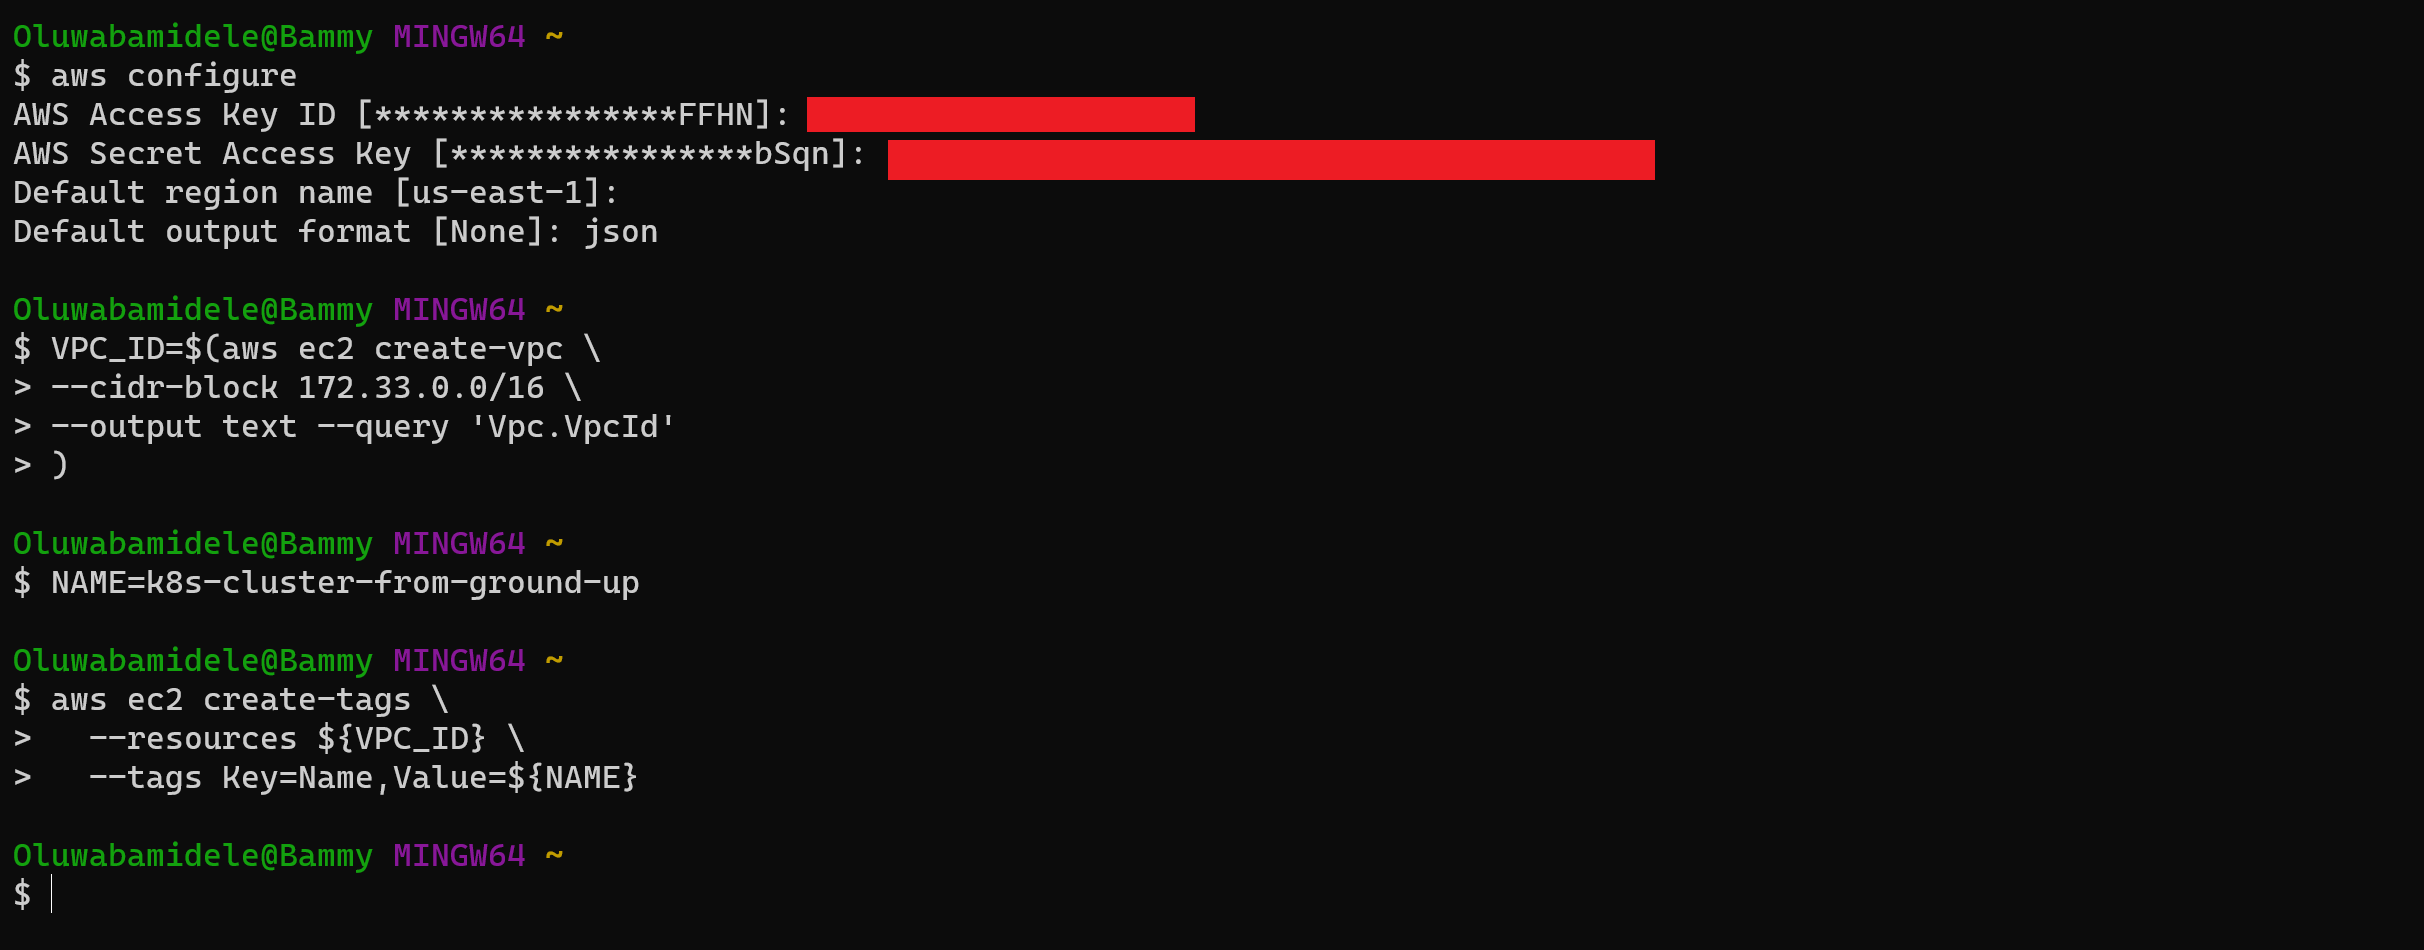
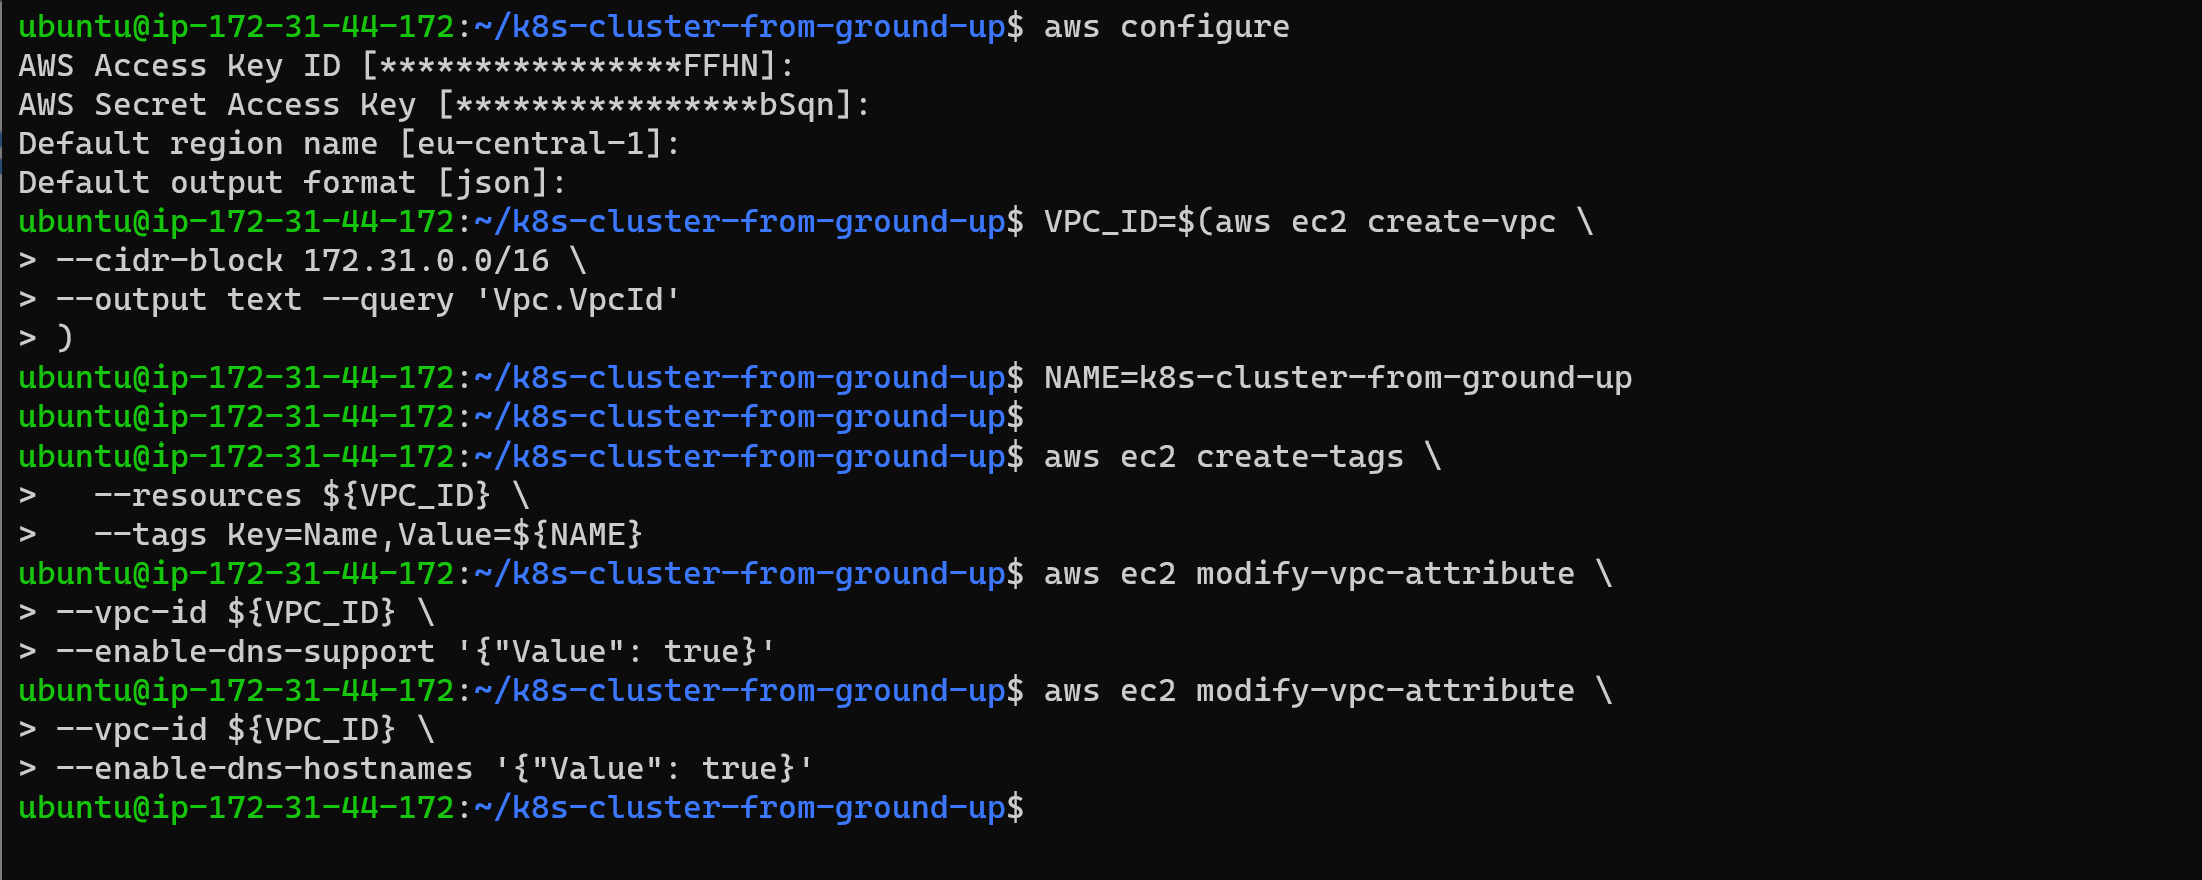
updated

Changed region(s): [[0.0, 0.0, 0.7411, 0.9511]]

diff --git a/project_21.md b/project_21.md
@@ -57,7 +57,7 @@ mkdir k8s-cluster-from-ground-up
 
 # 2. Create a VPC and store the ID as a variable:
 VPC_ID=$(aws ec2 create-vpc \
---cidr-block 172.33.0.0/16 \
+--cidr-block 172.31.0.0/16 \
 --output text --query 'Vpc.VpcId'
 )
 
@@ -87,8 +87,7 @@ aws ec2 modify-vpc-attribute \
  # 5. Set the required region
  AWS_REGION=eu-central-1
  ```
-![cssl installation](./images/6.png)
- ![cssl installation](./images/5.png)
+
 
 ***Dynamic Host Configuration Protocol – DHCP***
 
@@ -109,7 +108,9 @@ aws ec2 create-tags \
 
 ```
 
-![cssl installation](./images/7.png)
+ ![cssl installation](./images/5.png)
+
+![cssl installation](./images/6.png)
 
 ```bash
 # 8. Associate the DHCP Option set with the VPC:
@@ -118,13 +119,13 @@ aws ec2 associate-dhcp-options \
   --vpc-id ${VPC_ID}
   ```
 
-![cssl installation](./images/8.png)
+![cssl installation](./images/7.png)
 
 ```bash
 # 9 Create the Subnet
 SUBNET_ID=$(aws ec2 create-subnet \
   --vpc-id ${VPC_ID} \
-  --cidr-block 172.33.0.0/24 \
+  --cidr-block 172.31.0.0/24 \
   --output text --query 'Subnet.SubnetId')
 
 # 10. Add tag to Subnet
@@ -133,7 +134,7 @@ aws ec2 create-tags \
   --tags Key=Name,Value=${NAME}
 ```
 
-![cssl installation](./images/9.png)
+![cssl installation](./images/8.png)
 
 ```bash
 # 11. Create the Internet Gateway and attach it to the VPC
@@ -150,7 +151,8 @@ aws ec2 attach-internet-gateway \
   --internet-gateway-id ${INTERNET_GATEWAY_ID} \
   --vpc-id ${VPC_ID}
 ```
-![cssl installation](./images/10.png)
+
+![cssl installation](./images/9.png)
 
 ```bash
 # 14. Create route tables
@@ -179,7 +181,7 @@ aws ec2 create-route \
   --gateway-id ${INTERNET_GATEWAY_ID}
 ```
 
-![route table](./images/11.png)
+![route table](./images/10.png)
 
 
 ***Configure security groups***
@@ -202,12 +204,12 @@ aws ec2 create-tags \
 # Create Inbound traffic for all communication within the subnet to connect on ports used by the master node(s)
 aws ec2 authorize-security-group-ingress \
     --group-id ${SECURITY_GROUP_ID} \
-    --ip-permissions IpProtocol=tcp,FromPort=2379,ToPort=2380,IpRanges='[{CidrIp=172.33.0.0/24}]'
+    --ip-permissions IpProtocol=tcp,FromPort=2379,ToPort=2380,IpRanges='[{CidrIp=172.31.0.0/24}]'
 
 # # Create Inbound traffic for all communication within the subnet to connect on ports used by the worker nodes
 aws ec2 authorize-security-group-ingress \
     --group-id ${SECURITY_GROUP_ID} \
-    --ip-permissions IpProtocol=tcp,FromPort=30000,ToPort=32767,IpRanges='[{CidrIp=172.33.0.0/24}]'
+    --ip-permissions IpProtocol=tcp,FromPort=30000,ToPort=32767,IpRanges='[{CidrIp=172.31.0.0/24}]'
 
 # Create inbound traffic to allow connections to the Kubernetes API Server listening on port 6443
 aws ec2 authorize-security-group-ingress \
@@ -231,7 +233,7 @@ aws ec2 authorize-security-group-ingress \
   --cidr 0.0.0.0/0
 ```
 
-![route table](./images/12.png)
+![route table](./images/11.png)
 
 ***Network Load Balancer***
 
@@ -246,7 +248,8 @@ LOAD_BALANCER_ARN=$(aws elbv2 create-load-balancer \
 --output text --query 'LoadBalancers[].LoadBalancerArn')
 
 ```
-![route table](./images/13.png)
+
+![route table](./images/12.png)
 
 ***Tagret Group***
 
@@ -264,12 +267,12 @@ TARGET_GROUP_ARN=$(aws elbv2 create-target-group \
   --output text --query 'TargetGroups[].TargetGroupArn')
 
  # .21 Register targets - (Just like above, no real targets. You will just put the IP addresses so that, when the nodes become available, they will be used as targets.)
- aws elbv2 register-targets \
+aws elbv2 register-targets \
   --target-group-arn ${TARGET_GROUP_ARN} \
-  --targets Id=172.33.0.1{0,1,2} 
+  --targets Id=172.31.0.1{0,1,2}
 ```
 
-![route table](./images/14.png)
+![route table](./images/13.png)
 
 ```bash
 # 22. Create a listener to listen for requests and forward to the target nodes on TCP port 6443
@@ -282,7 +285,7 @@ aws elbv2 create-listener \
 --output text --query 'Listeners[].ListenerArn'
 ```
 
-![route table](./images/15.png)
+![route table](./images/14.png)
 
 ```bash
 # 23. Get the Kubernetes Public address
@@ -326,15 +329,13 @@ for i in 0 1 2; do
     --key-name ${NAME} \
     --security-group-ids ${SECURITY_GROUP_ID} \
     --instance-type t2.micro \
-    --private-ip-address 172.33.0.1${i} \
+    --private-ip-address 172.31.0.1${i} \
     --user-data "name=master-${i}" \
     --subnet-id ${SUBNET_ID} \
     --output text --query 'Instances[].InstanceId')
-
   aws ec2 modify-instance-attribute \
     --instance-id ${instance_id} \
     --no-source-dest-check
-
   aws ec2 create-tags \
     --resources ${instance_id} \
     --tags "Key=Name,Value=${NAME}-master-${i}"
@@ -342,7 +343,7 @@ done
 
 ```
 
-![master nodes](./images/16.png)
+![master nodes](./images/15.png)
 
 ***EC2 Instances for Worker Nodes***
 
@@ -356,21 +357,20 @@ for i in 0 1 2; do
     --key-name ${NAME} \
     --security-group-ids ${SECURITY_GROUP_ID} \
     --instance-type t2.micro \
-    --private-ip-address 172.33.0.2${i} \
+    --private-ip-address 172.31.0.2${i} \
     --user-data "name=worker-${i}|pod-cidr=172.20.${i}.0/24" \
     --subnet-id ${SUBNET_ID} \
     --output text --query 'Instances[].InstanceId')
-
   aws ec2 modify-instance-attribute \
     --instance-id ${instance_id} \
     --no-source-dest-check
-
   aws ec2 create-tags \
     --resources ${instance_id} \
     --tags "Key=Name,Value=${NAME}-worker-${i}"
 done
 ```
-![worker nodes](./images/17.png)
+
+![worker nodes](./images/16.png)
 
 ## Step 3 Prepare The Self-Signed Certificate Authority And Generate TLS Certificates
 
